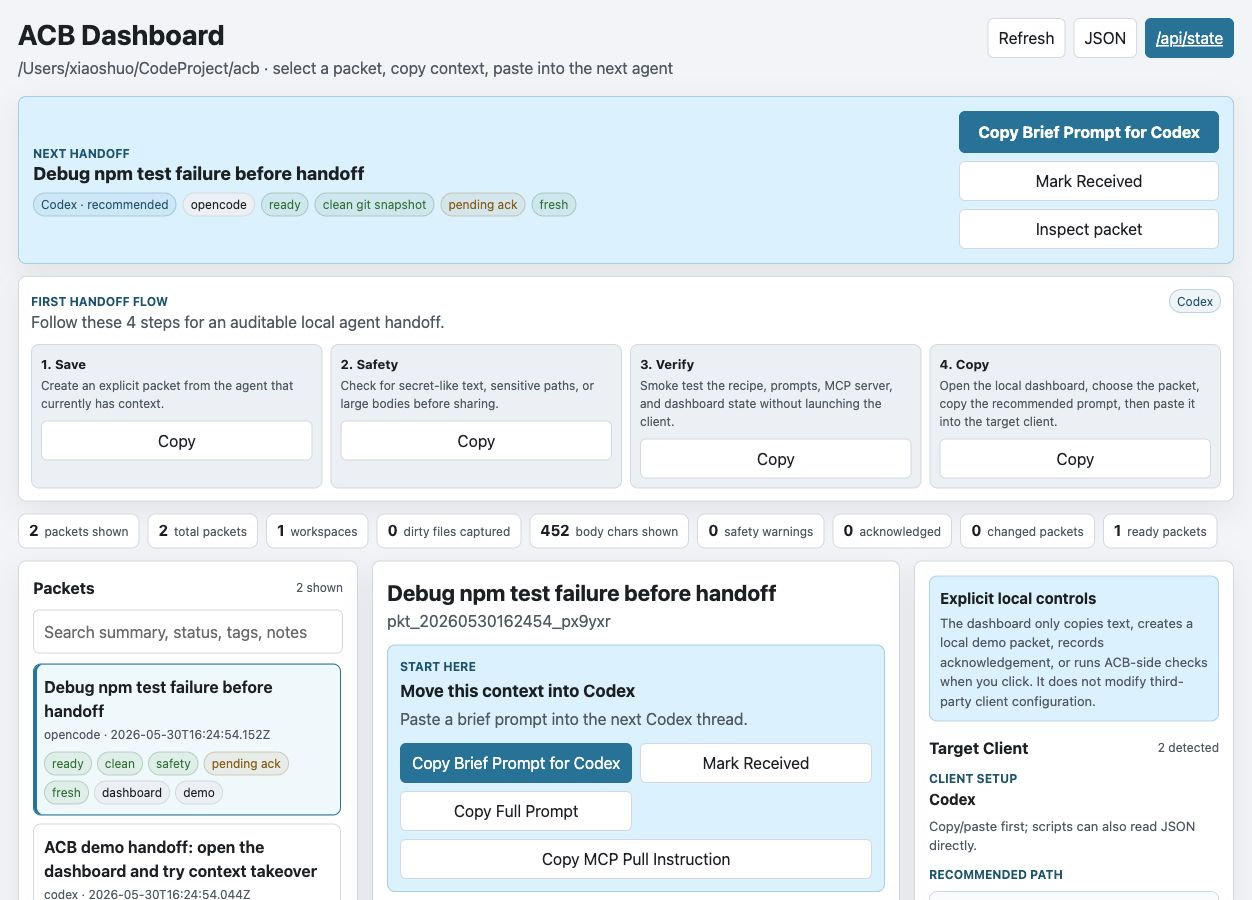
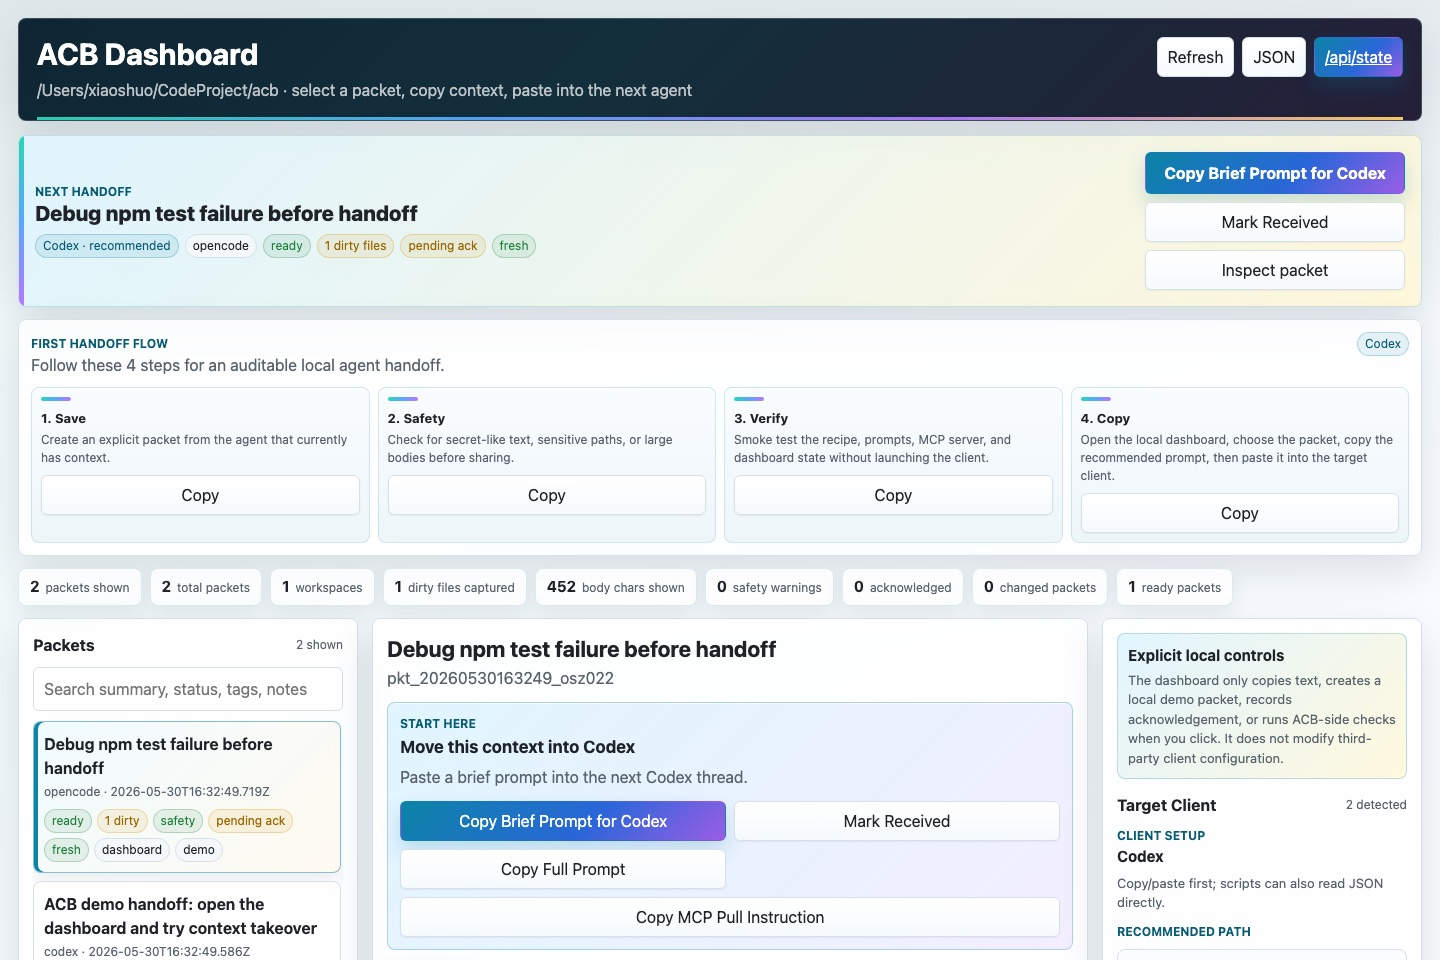
Polish dashboard visual design

diff --git a/bin/acb.js b/bin/acb.js
@@ -2139,26 +2139,35 @@ function renderDashboardHtml(state, { lang = "en" } = {}) {
   <style>
     :root {
       color-scheme: light;
-      --bg: #f4f6f8;
+      --bg: #eef4f7;
+      --bg-band: linear-gradient(135deg, #0f2533 0%, #132f3b 42%, #251f38 100%);
       --panel: #ffffff;
       --text: #1f2328;
       --muted: #59636e;
-      --line: #d8dee4;
-      --soft: #eef2f6;
-      --accent: #0a7ea4;
-      --accent-strong: #075f7a;
+      --line: #d6e0e8;
+      --soft: #eef5f8;
+      --accent: #0b84a5;
+      --accent-strong: #075b72;
+      --accent-2: #2a66d9;
+      --accent-3: #9b5de5;
+      --hot: #f06449;
+      --gold: #d99000;
       --good: #1a7f37;
       --warn: #9a6700;
       --danger: #cf222e;
       --code: #f6f8fa;
-      --shadow: 0 10px 30px rgba(31, 35, 40, 0.08);
-      --focus: #ddf4ff;
-      --selected: #fff8c5;
+      --shadow: 0 16px 42px rgba(15, 35, 48, 0.12);
+      --shadow-soft: 0 8px 20px rgba(15, 35, 48, 0.08);
+      --focus: #dff5ff;
+      --selected: #fff7d7;
+      --glass: rgba(255, 255, 255, 0.84);
     }
     * { box-sizing: border-box; }
     body {
       margin: 0;
-      background: var(--bg);
+      background:
+        linear-gradient(180deg, rgba(15, 37, 51, 0.07) 0, rgba(15, 37, 51, 0) 320px),
+        linear-gradient(135deg, #eef7f8 0%, #f8fbff 46%, #fff7eb 100%);
       color: var(--text);
       font-family: ui-sans-serif, system-ui, -apple-system, BlinkMacSystemFont, "Segoe UI", sans-serif;
       line-height: 1.5;
@@ -2171,9 +2180,28 @@ function renderDashboardHtml(state, { lang = "en" } = {}) {
       grid-template-columns: minmax(0, 1fr) auto;
       gap: 16px;
       align-items: start;
-      margin-bottom: 16px;
+      margin-bottom: 14px;
+      padding: 18px;
+      border: 1px solid rgba(255,255,255,0.18);
+      border-radius: 8px;
+      background: var(--bg-band);
+      box-shadow: var(--shadow);
+      color: #fff;
+      position: relative;
+      overflow: hidden;
     }
-    h1 { margin: 0 0 6px; font-size: 28px; line-height: 1.15; letter-spacing: 0; }
+    .topbar::after {
+      content: "";
+      position: absolute;
+      left: 18px;
+      right: 18px;
+      bottom: 0;
+      height: 3px;
+      background: linear-gradient(90deg, #28d7b7, #58a6ff, #b478ff, #ffd166);
+      opacity: .95;
+    }
+    .topbar p { color: rgba(255,255,255,0.72); }
+    h1 { margin: 0 0 6px; font-size: 30px; line-height: 1.15; letter-spacing: 0; }
     h2 { margin: 0; font-size: 16px; letter-spacing: 0; }
     h3 { margin: 0; font-size: 15px; letter-spacing: 0; }
     p { margin: 0; color: var(--muted); }
@@ -2181,27 +2209,47 @@ function renderDashboardHtml(state, { lang = "en" } = {}) {
     .toolbar { display: flex; flex-wrap: wrap; gap: 8px; justify-content: flex-end; }
     .btn, .tab {
       border: 1px solid var(--line);
-      background: var(--panel);
+      background: linear-gradient(180deg, #ffffff 0%, #f6fafc 100%);
       color: var(--text);
       border-radius: 6px;
       padding: 7px 10px;
       min-height: 34px;
+      box-shadow: 0 1px 0 rgba(255,255,255,.72) inset, 0 1px 2px rgba(15,35,48,.06);
+      transition: transform 120ms ease, border-color 120ms ease, box-shadow 120ms ease, background 120ms ease;
     }
-    .btn.primary { background: var(--accent); border-color: var(--accent); color: #fff; }
-    .btn:hover, .tab:hover { border-color: var(--accent); }
+    .btn.primary {
+      background: linear-gradient(135deg, var(--accent) 0%, var(--accent-2) 58%, var(--accent-3) 100%);
+      border-color: transparent;
+      color: #fff;
+      box-shadow: 0 10px 20px rgba(10, 126, 164, 0.2);
+    }
+    .btn:hover, .tab:hover { border-color: var(--accent); transform: translateY(-1px); box-shadow: var(--shadow-soft); }
+    .btn:active, .tab:active { transform: translateY(0); }
     .next-handoff {
       display: grid;
       grid-template-columns: minmax(0, 1fr) auto;
       gap: 14px;
       align-items: center;
-      border: 1px solid rgba(10, 126, 164, 0.28);
-      background: var(--focus);
+      border: 1px solid rgba(10, 126, 164, 0.18);
+      background:
+        linear-gradient(135deg, rgba(223, 245, 255, 0.96) 0%, rgba(255, 247, 215, 0.9) 100%);
       border-radius: 8px;
-      padding: 14px;
+      padding: 16px;
       margin-bottom: 12px;
       box-shadow: var(--shadow);
+      position: relative;
+      overflow: hidden;
     }
-    .next-title { font-size: 18px; font-weight: 750; line-height: 1.25; overflow-wrap: anywhere; }
+    .next-handoff::before {
+      content: "";
+      position: absolute;
+      top: 0;
+      bottom: 0;
+      left: 0;
+      width: 5px;
+      background: linear-gradient(180deg, #28d7b7, #58a6ff, #b478ff);
+    }
+    .next-title { font-size: 21px; font-weight: 800; line-height: 1.2; overflow-wrap: anywhere; }
     .next-meta { display: flex; flex-wrap: wrap; gap: 6px; margin-top: 8px; }
     .next-actions {
       display: grid;
@@ -2211,12 +2259,13 @@ function renderDashboardHtml(state, { lang = "en" } = {}) {
     }
     .next-actions .primary { min-height: 42px; font-weight: 700; }
     .handoff-flow {
-      background: var(--panel);
+      background: var(--glass);
       border: 1px solid var(--line);
       border-radius: 8px;
       box-shadow: var(--shadow);
       padding: 12px;
       margin-bottom: 12px;
+      backdrop-filter: blur(10px);
     }
     .flow-head {
       display: flex;
@@ -2231,28 +2280,41 @@ function renderDashboardHtml(state, { lang = "en" } = {}) {
       gap: 8px;
     }
     .flow-step {
-      border: 1px solid var(--line);
-      background: var(--soft);
+      border: 1px solid rgba(10, 126, 164, 0.16);
+      background: linear-gradient(180deg, #f9fcff 0%, #eef6fa 100%);
       border-radius: 8px;
       padding: 9px;
       min-width: 0;
+      position: relative;
+      box-shadow: inset 0 1px 0 rgba(255,255,255,.84);
+    }
+    .flow-step::before {
+      content: "";
+      display: block;
+      width: 30px;
+      height: 4px;
+      border-radius: 999px;
+      margin-bottom: 8px;
+      background: linear-gradient(90deg, #28d7b7, #58a6ff, #b478ff);
     }
     .flow-step strong { display: block; font-size: 13px; overflow-wrap: anywhere; }
     .flow-step p { font-size: 12px; margin: 3px 0 8px; }
     .flow-step .btn { width: 100%; }
     .stats { display: flex; flex-wrap: wrap; gap: 8px; margin-bottom: 12px; }
     .stat, .panel, .empty {
-      background: var(--panel);
+      background: var(--glass);
       border: 1px solid var(--line);
       border-radius: 8px;
       box-shadow: var(--shadow);
+      backdrop-filter: blur(10px);
     }
     .stat {
       display: flex;
       align-items: baseline;
       gap: 6px;
-      padding: 7px 10px;
-      box-shadow: none;
+      padding: 8px 11px;
+      box-shadow: var(--shadow-soft);
+      border-color: rgba(10, 126, 164, 0.14);
     }
     .panel, .empty { padding: 14px; }
     .stat strong { display: inline; font-size: 15px; line-height: 1.2; }
@@ -2270,7 +2332,7 @@ function renderDashboardHtml(state, { lang = "en" } = {}) {
       border: 1px solid var(--line);
       border-radius: 6px;
       padding: 9px 10px;
-      background: var(--panel);
+      background: rgba(255,255,255,.88);
       color: var(--text);
       margin-bottom: 10px;
     }
@@ -2279,12 +2341,18 @@ function renderDashboardHtml(state, { lang = "en" } = {}) {
       width: 100%;
       text-align: left;
       border: 1px solid var(--line);
-      background: var(--panel);
+      background: rgba(255,255,255,.84);
       border-radius: 8px;
       padding: 10px;
       color: var(--text);
+      transition: transform 120ms ease, box-shadow 120ms ease, border-color 120ms ease, background 120ms ease;
     }
-    .packet-row.active { border-color: var(--accent); box-shadow: inset 3px 0 0 var(--accent); background: #f0f9fb; }
+    .packet-row:hover { transform: translateY(-1px); box-shadow: var(--shadow-soft); border-color: rgba(10, 126, 164, 0.34); }
+    .packet-row.active {
+      border-color: rgba(10, 126, 164, 0.48);
+      box-shadow: inset 4px 0 0 var(--accent), var(--shadow-soft);
+      background: linear-gradient(135deg, #f0fbff 0%, #fffaf0 100%);
+    }
     .packet-title { font-weight: 650; overflow-wrap: anywhere; }
     .packet-sub { color: var(--muted); font-size: 12px; margin-top: 3px; }
     .badge-row { display: flex; flex-wrap: wrap; gap: 5px; margin-top: 8px; }
@@ -2293,27 +2361,33 @@ function renderDashboardHtml(state, { lang = "en" } = {}) {
       align-items: center;
       gap: 4px;
       border: 1px solid var(--line);
-      background: var(--soft);
+      background: #f4f8fb;
       color: var(--text);
       border-radius: 999px;
       padding: 2px 7px;
       font-size: 12px;
       max-width: 100%;
     }
-    .badge.good { color: var(--good); border-color: rgba(26, 127, 55, 0.25); background: rgba(26, 127, 55, 0.08); }
-    .badge.warn { color: var(--warn); border-color: rgba(154, 103, 0, 0.25); background: rgba(154, 103, 0, 0.08); }
-    .badge.accent { color: var(--accent-strong); border-color: rgba(10, 126, 164, 0.25); background: rgba(10, 126, 164, 0.08); }
+    .badge.good { color: var(--good); border-color: rgba(26, 127, 55, 0.25); background: rgba(26, 127, 55, 0.09); }
+    .badge.warn { color: var(--warn); border-color: rgba(217, 144, 0, 0.28); background: rgba(217, 144, 0, 0.10); }
+    .badge.accent { color: var(--accent-strong); border-color: rgba(10, 126, 164, 0.25); background: rgba(10, 126, 164, 0.10); }
     .target-list { display: grid; gap: 6px; margin-bottom: 14px; }
     .target-card {
       width: 100%;
       text-align: left;
       border: 1px solid var(--line);
-      background: var(--panel);
+      background: rgba(255,255,255,.84);
       border-radius: 8px;
       padding: 8px 10px;
       color: var(--text);
+      transition: transform 120ms ease, box-shadow 120ms ease, border-color 120ms ease;
     }
-    .target-card.active { border-color: var(--accent); background: var(--selected); box-shadow: inset 3px 0 0 var(--accent); }
+    .target-card:hover { transform: translateY(-1px); box-shadow: var(--shadow-soft); border-color: rgba(10, 126, 164, 0.34); }
+    .target-card.active {
+      border-color: rgba(10, 126, 164, 0.42);
+      background: linear-gradient(135deg, #eaf9ff 0%, var(--selected) 100%);
+      box-shadow: inset 4px 0 0 var(--accent), var(--shadow-soft);
+    }
     .target-top { display: flex; align-items: center; justify-content: space-between; gap: 8px; }
     .target-title { font-weight: 700; }
     .target-description { color: var(--muted); font-size: 12px; margin-top: 4px; }
@@ -2328,7 +2402,7 @@ function renderDashboardHtml(state, { lang = "en" } = {}) {
     .setup-guide p { font-size: 13px; }
     .safety-note {
       border: 1px solid rgba(10, 126, 164, 0.24);
-      background: var(--focus);
+      background: linear-gradient(135deg, rgba(223, 245, 255, 0.94), rgba(255, 247, 215, 0.84));
       border-radius: 8px;
       padding: 10px;
       margin-bottom: 14px;
@@ -2371,10 +2445,11 @@ function renderDashboardHtml(state, { lang = "en" } = {}) {
       gap: 12px;
       align-items: center;
       border: 1px solid rgba(10, 126, 164, 0.28);
-      background: var(--focus);
+      background: linear-gradient(135deg, rgba(223, 245, 255, 0.96) 0%, rgba(241, 236, 255, 0.9) 100%);
       border-radius: 8px;
       padding: 12px;
       margin: 12px 0;
+      box-shadow: inset 0 1px 0 rgba(255,255,255,.8);
     }
     .takeover h3 { margin: 2px 0 4px; font-size: 17px; }
     .takeover-actions {
@@ -2393,7 +2468,12 @@ function renderDashboardHtml(state, { lang = "en" } = {}) {
       text-transform: uppercase;
     }
     .tabs { display: flex; flex-wrap: wrap; gap: 6px; margin: 12px 0; }
-    .tab.active { background: var(--accent); border-color: var(--accent); color: white; }
+    .tab.active {
+      background: linear-gradient(135deg, var(--accent) 0%, var(--accent-2) 100%);
+      border-color: transparent;
+      color: white;
+      box-shadow: 0 8px 18px rgba(10, 126, 164, 0.16);
+    }
     .kv {
       display: grid;
       grid-template-columns: 120px minmax(0, 1fr);
@@ -2410,7 +2490,7 @@ function renderDashboardHtml(state, { lang = "en" } = {}) {
       gap: 8px;
       align-items: center;
       border: 1px solid var(--line);
-      background: var(--code);
+      background: #f8fbfd;
       border-radius: 8px;
       padding: 8px;
     }
@@ -2422,7 +2502,7 @@ function renderDashboardHtml(state, { lang = "en" } = {}) {
     pre {
       white-space: pre-wrap;
       overflow-wrap: anywhere;
-      background: var(--code);
+      background: #f8fbfd;
       border: 1px solid var(--line);
       border-radius: 8px;
       padding: 12px;
@@ -2448,7 +2528,7 @@ function renderDashboardHtml(state, { lang = "en" } = {}) {
       position: fixed;
       right: 18px;
       bottom: 18px;
-      background: var(--text);
+      background: #12202b;
       color: white;
       padding: 9px 12px;
       border-radius: 8px;

diff --git a/CHANGELOG.md b/CHANGELOG.md
@@ -6,6 +6,7 @@
 
 - Added a visual README hero that shows the local handoff flow from source agent to ACB packet to receiving MCP client.
 - Added a real dashboard screenshot to README visual demos.
+- Refined the dashboard visual treatment with a stronger control-panel header, highlighted handoff CTA, richer status badges, and updated screenshot asset.
 
 ## 0.15.1
 
